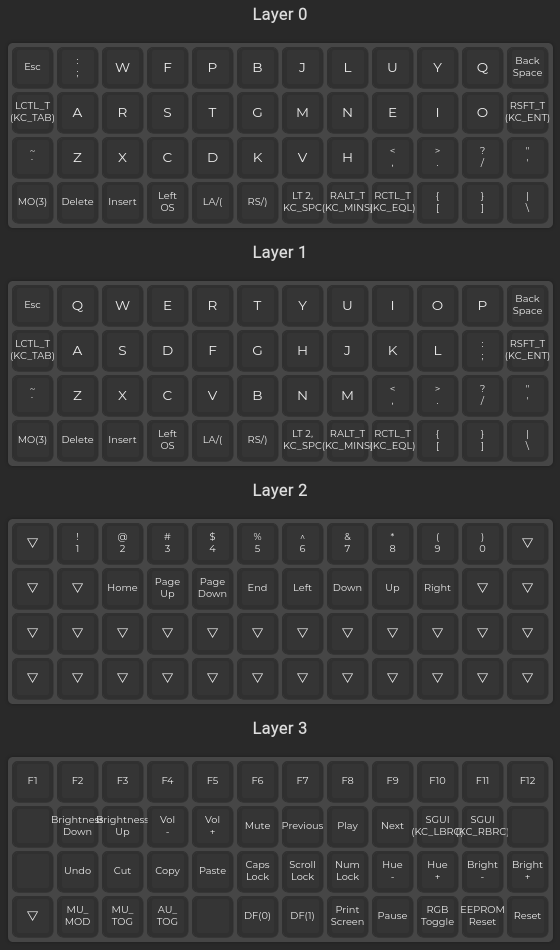
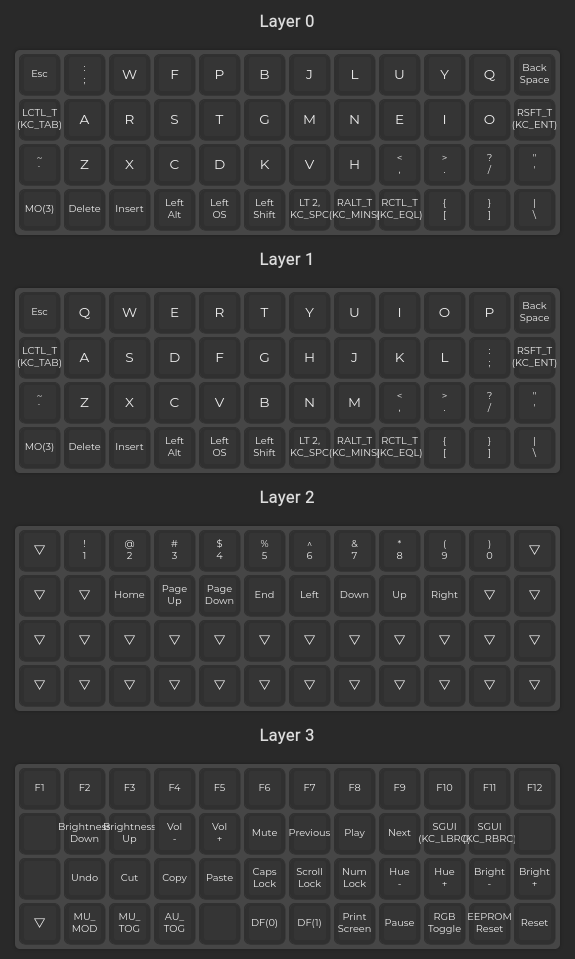
Swap parens to tap dance on brackets

diff --git a/keymap.c b/keymap.c
@@ -1,0 +1,27 @@
+#include QMK_KEYBOARD_H
+
+/* THIS FILE WAS GENERATED!
+ *
+ * This file was generated by qmk json2c. You may or may not want to
+ * edit it directly.
+ */
+
+// Tap Dance declarations
+enum {
+    TD_LEFT_PAREN,
+	TD_RIGHT_PAREN
+};
+
+// Tap Dance definitions
+qk_tap_dance_action_t tap_dance_actions[] = {
+    // Tap once for Escape, twice for Caps Lock
+    [TD_LEFT_PAREN] = ACTION_TAP_DANCE_DOUBLE(KC_LBRC, KC_LPRN),
+    [TD_RIGHT_PAREN] = ACTION_TAP_DANCE_DOUBLE(KC_RBRC, KC_RPRN),
+};
+
+const uint16_t PROGMEM keymaps[][MATRIX_ROWS][MATRIX_COLS] = {
+	[0] = LAYOUT_ortho_4x12(KC_ESC, KC_SCLN, KC_W, KC_F, KC_P, KC_B, KC_J, KC_L, KC_U, KC_Y, KC_Q, KC_BSPC, LCTL_T(KC_TAB), KC_A, KC_R, KC_S, KC_T, KC_G, KC_M, KC_N, KC_E, KC_I, KC_O, RSFT_T(KC_ENT), KC_GRV, KC_Z, KC_X, KC_C, KC_D, KC_K, KC_V, KC_H, KC_COMM, KC_DOT, KC_SLSH, KC_QUOT, MO(3), KC_DEL, KC_INS, KC_LALT, KC_LGUI, KC_LSFT, LT(2,KC_SPC), RALT_T(KC_MINS), RCTL_T(KC_EQL), TD(TD_LEFT_PAREN), TD(TD_RIGHT_PAREN), KC_BSLS),
+	[1] = LAYOUT_ortho_4x12(KC_ESC, KC_Q, KC_W, KC_E, KC_R, KC_T, KC_Y, KC_U, KC_I, KC_O, KC_P, KC_BSPC, LCTL_T(KC_TAB), KC_A, KC_S, KC_D, KC_F, KC_G, KC_H, KC_J, KC_K, KC_L, KC_SCLN, RSFT_T(KC_ENT), KC_GRV, KC_Z, KC_X, KC_C, KC_V, KC_B, KC_N, KC_M, KC_COMM, KC_DOT, KC_SLSH, KC_QUOT, MO(3), KC_DEL, KC_INS, KC_LALT, KC_LGUI, KC_LSFT, LT(2,KC_SPC), RALT_T(KC_MINS), RCTL_T(KC_EQL), TD(TD_LEFT_PAREN), TD(TD_RIGHT_PAREN), KC_BSLS),
+	[2] = LAYOUT_ortho_4x12(KC_TRNS, KC_1, KC_2, KC_3, KC_4, KC_5, KC_6, KC_7, KC_8, KC_9, KC_0, KC_TRNS, KC_TRNS, KC_TRNS, KC_HOME, KC_PGUP, KC_PGDN, KC_END, KC_LEFT, KC_DOWN, KC_UP, KC_RGHT, KC_TRNS, KC_TRNS, KC_TRNS, KC_TRNS, KC_TRNS, KC_TRNS, KC_TRNS, KC_TRNS, KC_TRNS, KC_TRNS, KC_TRNS, KC_TRNS, KC_TRNS, KC_TRNS, KC_TRNS, KC_TRNS, KC_TRNS, KC_TRNS, KC_TRNS, KC_TRNS, KC_TRNS, KC_TRNS, KC_TRNS, KC_TRNS, KC_TRNS, KC_TRNS),
+	[3] = LAYOUT_ortho_4x12(KC_F1, KC_F2, KC_F3, KC_F4, KC_F5, KC_F6, KC_F7, KC_F8, KC_F9, KC_F10, KC_F11, KC_F12, KC_NO, KC_BRID, KC_BRIU, KC_VOLD, KC_VOLU, KC_MUTE, KC_MPRV, KC_MPLY, KC_MNXT, SGUI(KC_LBRC), SGUI(KC_RBRC), KC_NO, KC_NO, KC_UNDO, KC_CUT, KC_COPY, KC_PSTE, KC_CAPS, KC_SLCK, KC_NLCK, RGB_HUD, RGB_HUI, RGB_VAD, RGB_VAI, KC_TRNS, MU_MOD, MU_TOG, AU_TOG, KC_NO, DF(0), DF(1), KC_PSCR, KC_PAUS, RGB_TOG, EEP_RST, RESET)
+};
